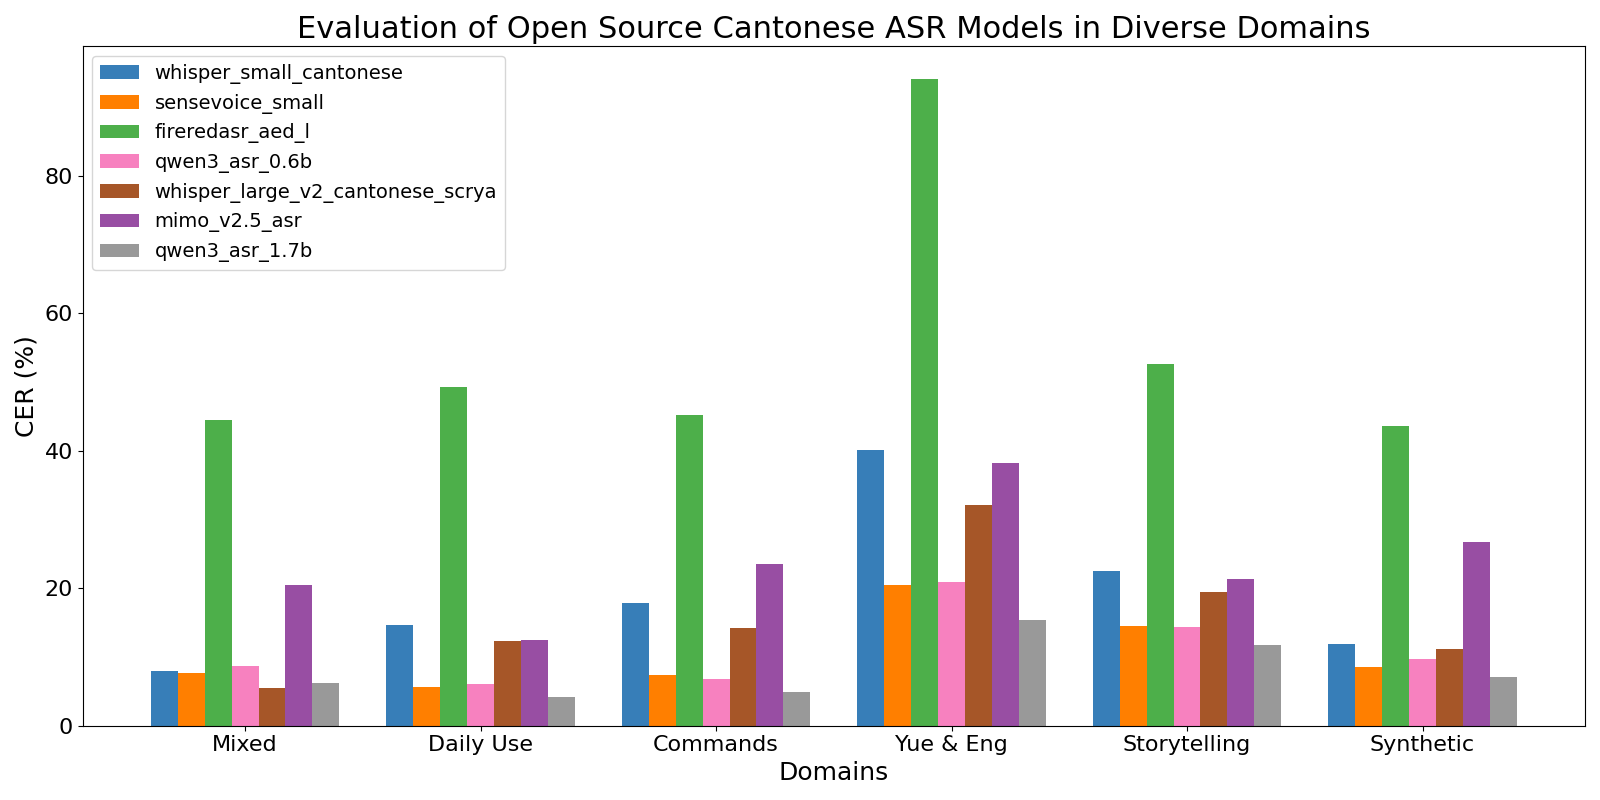
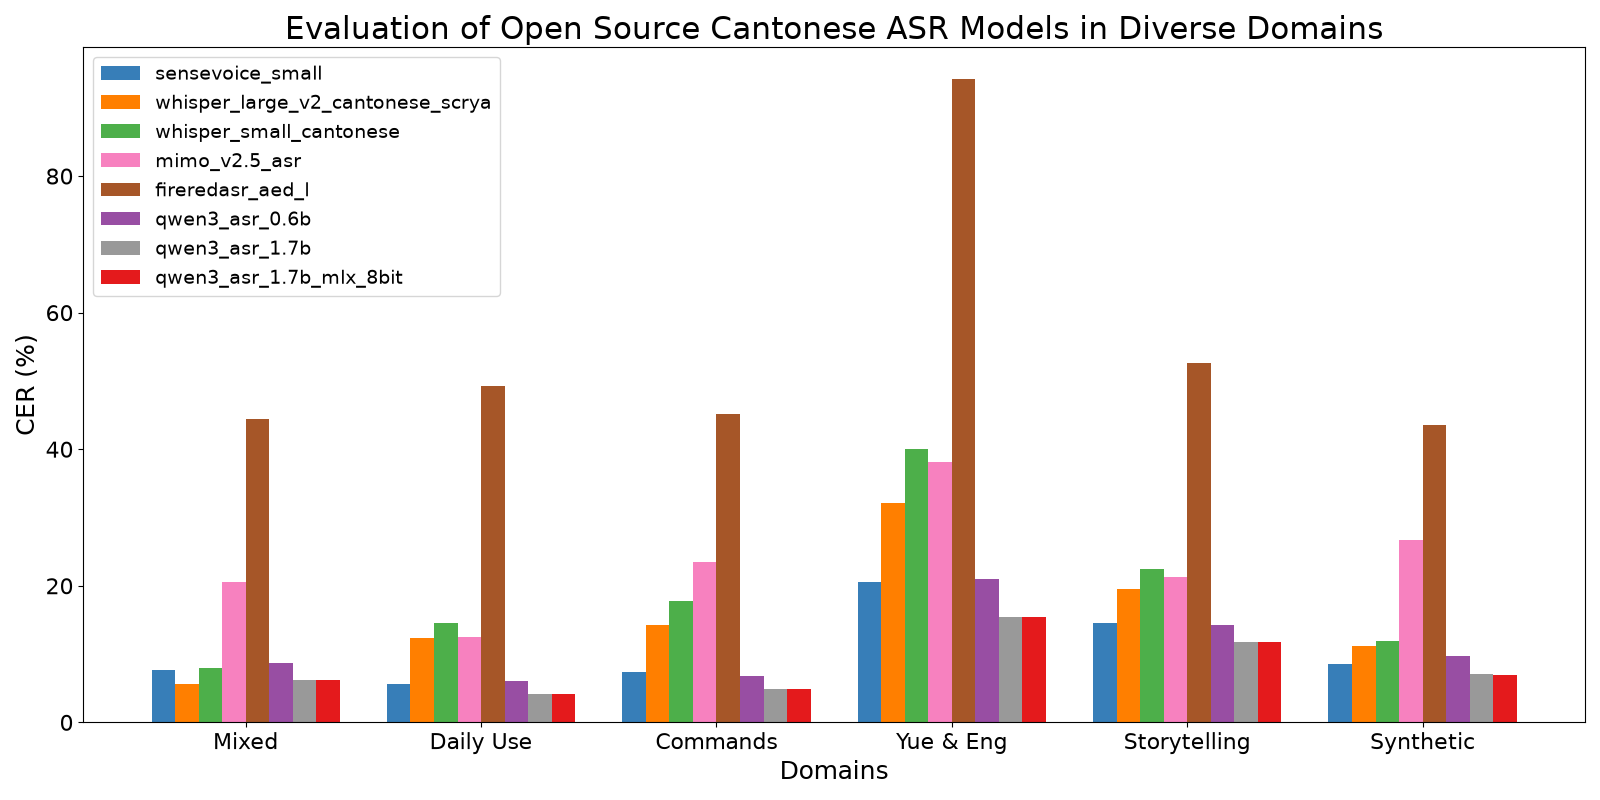
Address review: refresh stale cells, scope point 1, regenerate chart
- README table: every cell now comes from one run of eval.py under the
  environment.yml pins (opencc 1.1.8, jiwer 3.0.4). This refreshes the nine
  SenseVoice/Whisper cells on Yue & Eng, Storytelling and Synthetic (results
  regenerated June 2025, table never updated) and settles the 0.01 pp
  rounding differences in the Qwen columns.
- Discussion point 1 scoped to the original three models; point 5 states the
  margin; point 6 says the MLX row also differs in audio path and dtype, so
  its figures are the combined effect, not quantisation alone.
- cer_chart.png regenerated with the table's eight columns, in table order.
  eval.py: ten colours instead of seven (the 8th model reused colour 1), and
  model order follows --model (else alphabetical) instead of os.listdir.
- MlxQwen3ASRModel: validate bits (4, 8 or None) and dtype, get_name() handles
  bits=None, and the quantised path passes dtype to Session (it fell back to
  the library default, float16, which is what the committed run used, so the
  results are unchanged).
- mlx-qwen3-asr added to the pip block and environment.yml, marked Apple
  Silicon only.

Claude-Session: https://claude.ai/code/session_01VB8H2CXCHZEp3xeaFdVUiG

diff --git a/asr_models/mlx_qwen3_asr_model.py b/asr_models/mlx_qwen3_asr_model.py
@@ -21,9 +21,16 @@ class MlxQwen3ASRModel(ASRModel):
     `language` defaults to "Cantonese" to match `Qwen3ASRModel`, which keeps the
     row a like-for-like quantisation comparison.  Pass `language=None` for the
     detect-the-language configuration; both runs are in `results/`.
+
+    `bits` is 4 or 8 to quantise, or None to run unquantised at `dtype`.
+
+    The audio path (16-bit WAV, float16) is the one the committed
+    `qwen3_asr_1.7b_mlx_8bit*` results were produced with; see Discussion
+    point 6 in the README for how it differs from the bfloat16 row.
     """
 
     TARGET_SR = 16000
+    DTYPES = ("float16", "bfloat16", "float32")
 
     def __init__(
         self,
@@ -33,25 +40,28 @@ class MlxQwen3ASRModel(ASRModel):
         group_size=64,
         language="Cantonese",
     ):
+        if bits not in (None, 4, 8):
+            raise ValueError("bits must be 4, 8 or None (unquantised), got %r" % (bits,))
+        if dtype not in self.DTYPES:
+            raise ValueError("dtype must be one of %s, got %r" % (", ".join(self.DTYPES), dtype))
+
         import mlx.core as mx
         import mlx_qwen3_asr as asr
 
-        mx_dtype = {
-            "float16": mx.float16,
-            "bfloat16": mx.bfloat16,
-            "float32": mx.float32,
-        }.get(dtype, mx.float16)
+        mx_dtype = getattr(mx, dtype)
 
-        if bits in (4, 8):
+        if bits is not None:
             from mlx_qwen3_asr.convert import quantize_model
 
             model, _ = asr.load_model(model_name, dtype=mx_dtype)
             model = quantize_model(model, bits=int(bits), group_size=int(group_size))
-            self.session = asr.Session(model, tokenizer_model=model_name)
+            # Pass dtype here too: Session otherwise falls back to its own default.
+            self.session = asr.Session(model, dtype=mx_dtype, tokenizer_model=model_name)
         else:
             self.session = asr.Session(model_name, dtype=mx_dtype)
 
         self.model_name = model_name
+        self.dtype = dtype
         self.bits = bits
         self.language = language
 
@@ -97,6 +107,8 @@ class MlxQwen3ASRModel(ASRModel):
         return results
 
     def get_name(self):
+        # Matches the run.py registry keys, e.g. qwen3_asr_1.7b_mlx_8bit[_auto].
         size = "1.7b" if "1.7B" in self.model_name else "0.6b"
-        name = "qwen3_asr_%s_mlx_%dbit" % (size, self.bits)
+        precision = "%dbit" % self.bits if self.bits is not None else self.dtype
+        name = "qwen3_asr_%s_mlx_%s" % (size, precision)
         return name if self.language else name + "_auto"

diff --git a/eval.py b/eval.py
@@ -67,10 +67,10 @@ def eval_all_results(models=None):
     results_dir = 'results'
     evaluation_results = {}
 
-    model_dirs = [
-        m for m in os.listdir(results_dir)
-        if os.path.isdir(os.path.join(results_dir, m)) and (models is None or m in models)
-    ]
+    # Deterministic order: the order given on the command line, else alphabetical.
+    # (os.listdir order varies by filesystem, and it sets the chart's bar order.)
+    candidates = models if models is not None else sorted(os.listdir(results_dir))
+    model_dirs = [m for m in candidates if os.path.isdir(os.path.join(results_dir, m))]
 
     total_files = sum(
         sum(1 for f in os.listdir(os.path.join(results_dir, m)) if f.endswith('.json'))
@@ -108,7 +108,9 @@ def plot_evaluation_results(evaluation_results, dataset_tasks):
     model_names = list(cer_values.keys())
     n_models = len(model_names)
     n_datasets = len(dataset_labels)
-    colors = ['#377eb8', '#ff7f00', '#4daf4a', '#f781bf', '#a65628', '#984ea3', '#999999']
+    # Ten colours so up to ten models get distinct bars (the original seven come first).
+    colors = ['#377eb8', '#ff7f00', '#4daf4a', '#f781bf', '#a65628', '#984ea3', '#999999',
+              '#e41a1c', '#17becf', '#dede00']
 
     width = 0.8 / n_models
     x = np.arange(n_datasets)

diff --git a/README.md b/README.md
@@ -3,16 +3,21 @@
 
 | Dataset      | sensevoice_small CER | whisper_large_v2_cantonese_scrya CER | whisper_small_cantonese CER | mimo_v2.5_asr CER | fireredasr_aed_l CER | qwen3_asr_0.6b CER | qwen3_asr_1.7b CER | qwen3_asr_1.7b_mlx_8bit CER |
 |--------------|----------------------|--------------------------------------|-----------------------------|-------------------|----------------------|--------------------|--------------------|-----------------------------|
-| Mixed        | 7.70%                | 5.55%                                | 8.00%                       | 20.53%            | 44.49%               | 8.69%              | 6.21%              | 6.27%                       |
+| Mixed        | 7.70%                | 5.55%                                | 8.00%                       | 20.53%            | 44.49%               | 8.70%              | 6.21%              | 6.27%                       |
 | Daily Use    | 5.64%                | 12.38%                               | 14.60%                      | 12.50%            | 49.27%               | 6.12%              | 4.22%              | 4.13%                       |
 | Commands     | 7.45%                | 14.22%                               | 17.83%                      | 23.52%            | 45.21%               | 6.83%              | 4.89%              | 4.85%                       |
-| Yue & Eng    | 9.05%                | 20.85%                               | 25.57%                      | 38.20%            | 94.14%               | 20.93%             | 15.37%             | 15.44%                      |
-| Storytelling | 14.67%               | 18.54%                               | 25.06%                      | 21.28%            | 52.61%               | 14.31%             | 11.79%             | 11.79%                      |
-| Synthetic    | 10.58%               | 14.20%                               | 15.05%                      | 26.72%            | 43.61%               | 9.65%              | 7.04%              | 6.92%                       |
+| Yue & Eng    | 20.49%               | 32.14%                               | 40.06%                      | 38.20%            | 94.14%               | 20.93%             | 15.38%             | 15.44%                      |
+| Storytelling | 14.52%               | 19.47%                               | 22.48%                      | 21.28%            | 52.61%               | 14.31%             | 11.79%             | 11.79%                      |
+| Synthetic    | 8.51%                | 11.22%                               | 11.90%                      | 26.72%            | 43.61%               | 9.66%              | 7.04%              | 6.93%                       |
 
-The `qwen3_asr_0.6b` and `qwen3_asr_1.7b` columns were computed from the results
-already committed under `results/`; only the table entries were outstanding. The
-chart above predates all three columns.
+Every cell above, and the chart, comes from one run of `eval.py` over the committed
+`results/`, with the versions pinned in `environment.yml` (opencc 1.1.8, jiwer
+3.0.4). The SenseVoice and Whisper cells for Yue & Eng, Storytelling and
+Synthetic were refreshed: those results were regenerated in June 2025 and the
+chart with them, but the table still carried the 2024 values. The `expected`
+texts are identical across models, so the reference data did not change. The
+chart shows the same eight columns as the table; the `language=None` run is
+compared separately under Discussion.
 
 ## Open Source ASR Models
 1. [SenseVoiceSmall](https://huggingface.co/FunAudioLLM/SenseVoiceSmall): Trained on 300,000 hours of multilingual speech, including almost 9600 hours of Cantonese speech, Alibaba's multilingual model shows state-of-the-art ASR capability in Chinese, English, Cantonese, Japanese, and Korean. Extremely low inference latency was achieved by employing a non-autoregressive end-to-end architecture.
@@ -34,22 +39,22 @@ chart above predates all three columns.
 
 ## Discussion
 
-1. SenseVoice Small leads in all domains except the mixed domain. The two Whisper models are fine-tuned on subsets of the Common Voice 17.0 dataset. Impressively, SenseVoice Small still outperforms Whisper Small Cantonese on CV 17 Test.
+1. Among the three models in the original comparison (SenseVoice Small and the two Whisper models), SenseVoice Small leads in all domains except the mixed domain. The two Whisper models are fine-tuned on subsets of the Common Voice 17.0 dataset. Impressively, SenseVoice Small still outperforms Whisper Small Cantonese on CV 17 Test. Of the models added since, Qwen3-ASR-1.7B now has the lowest CER overall (point 5).
 2. The Whisper models struggle the most on the Cantonese-English code switching domain, which can be explained by the lack of code switching sentences in the Common Voice dataset they are fine-tuend on.
 3. The second most difficult domain is the storytelling domain. It is challenging because the story used in evaluation, Romance of the Three Kingdoms, contains many historical names and places, which are rarely seen in the training data.
 4. Overall, SenseVoice shows remarkable generalization capability across various domains while Whisper models suffer significant precision loss on domains that are not fine-tuned on. This shows that more diverse training data needs to be curated for developing more robust Whisper models.
-5. Qwen3-ASR-1.7B leads five of the six domains, losing only Mixed to a Whisper fine-tuned on Common Voice itself. Its margin is largest on Cantonese-English code-switching.
-6. **8-bit quantisation of Qwen3-ASR-1.7B is close to free on these domains.** With the language forced on both sides, the mean signed difference against bfloat16 is -0.02 pp and the mean absolute difference is 0.06 pp; no domain moves by more than 0.12 pp. Three domains are slightly better quantised and two slightly worse, which is what noise looks like rather than a systematic loss.
-7. **Forcing the language costs nothing in accuracy, but it does save time.** Comparing the two MLX runs (`language="Cantonese"` vs `language=None`, same weights): mean absolute difference 0.03 pp, largest single move 0.12 pp on Mixed. Even on the code-switching set the two agree to 0.01 pp. Language detection is, however, not free in wall-clock: 25 min versus 32 min for the same 6,933 utterances, so about a 30% decode-time saving from forcing it. Caveat worth stating: every utterance here is a full sentence. This says nothing about sub-second audio, where language detection has much less to go on.
+5. Qwen3-ASR-1.7B (at either precision) has the lowest CER in five of the six domains, losing only Mixed to Whisper Large v2, which is fine-tuned on Common Voice itself. Its largest absolute margin is on Cantonese-English code-switching: 15.38% against 20.49% for SenseVoice Small, the next best model outside the Qwen family.
+6. **8-bit quantisation of Qwen3-ASR-1.7B is close to free on these domains.** With the language forced on both sides, the mean signed difference against bfloat16 is -0.02 pp and the mean absolute difference is 0.06 pp; no domain moves by more than 0.12 pp. Three domains are slightly better quantised, two slightly worse and one unchanged, which is what noise looks like rather than a systematic loss. One caveat: the MLX row differs from the bfloat16 row in more than the weights. Its audio went through a 16-bit WAV file, any audio not already at 16 kHz was resampled with `scipy.signal.resample_poly` rather than torchaudio, and the unquantised parts ran at float16 rather than bfloat16. So these figures are the combined effect of all of these, not of quantisation alone.
+7. **Forcing the language costs nothing in accuracy, but it does save time.** Comparing the two MLX runs (`language="Cantonese"` vs `language=None`, same weights): mean absolute difference 0.03 pp, largest single move 0.12 pp on Mixed. Even on the code-switching set the two agree to 0.02 pp. Language detection is, however, not free in wall-clock: 25 min versus 32 min for the same 6,933 utterances, so about a 30% decode-time saving from forcing it. Caveat worth stating: every utterance here is a full sentence. This says nothing about sub-second audio, where language detection has much less to go on.
 
 | Dataset | `language="Cantonese"` | `language=None` |
 |---|---|---|
 | Mixed | 6.27% | 6.39% |
 | Daily Use | 4.13% | 4.14% |
 | Commands | 4.85% | 4.85% |
-| Yue & Eng | 15.44% | 15.45% |
+| Yue & Eng | 15.44% | 15.46% |
 | Storytelling | 11.79% | 11.79% |
-| Synthetic | 6.92% | 6.87% |
+| Synthetic | 6.93% | 6.88% |
 
 ## Filtering and Postprocessing
 
@@ -81,6 +86,8 @@ pip install funasr transformers torch torchaudio datasets librosa matplotlib tqd
 pip install "https://github.com/mjun0812/flash-attention-prebuild-wheels/releases/download/v0.9.0/flash_attn-2.8.3%2Bcu128torch2.9-cp311-cp311-linux_x86_64.whl"
 pip install -r FireRedASR/requirements.txt
 pip install -r MiMo-V2.5-ASR/requirements.txt
+# Apple Silicon only, for the qwen3_asr_1.7b_mlx_8bit rows; skip on Linux:
+pip install mlx-qwen3-asr
 ```
 
 Download model weights:
@@ -105,4 +112,10 @@ Generated outputs of all the models can be found under the `results/` folder.
 Then, you can calculate the character error rate for the results using:
 ```
 python eval.py
+```
+
+`eval.py` also writes `cer_chart.png`. The chart above was generated with the
+table's eight columns, in table order:
+```
+python eval.py --model sensevoice_small whisper_large_v2_cantonese_scrya whisper_small_cantonese mimo_v2.5_asr fireredasr_aed_l qwen3_asr_0.6b qwen3_asr_1.7b qwen3_asr_1.7b_mlx_8bit
 ```
